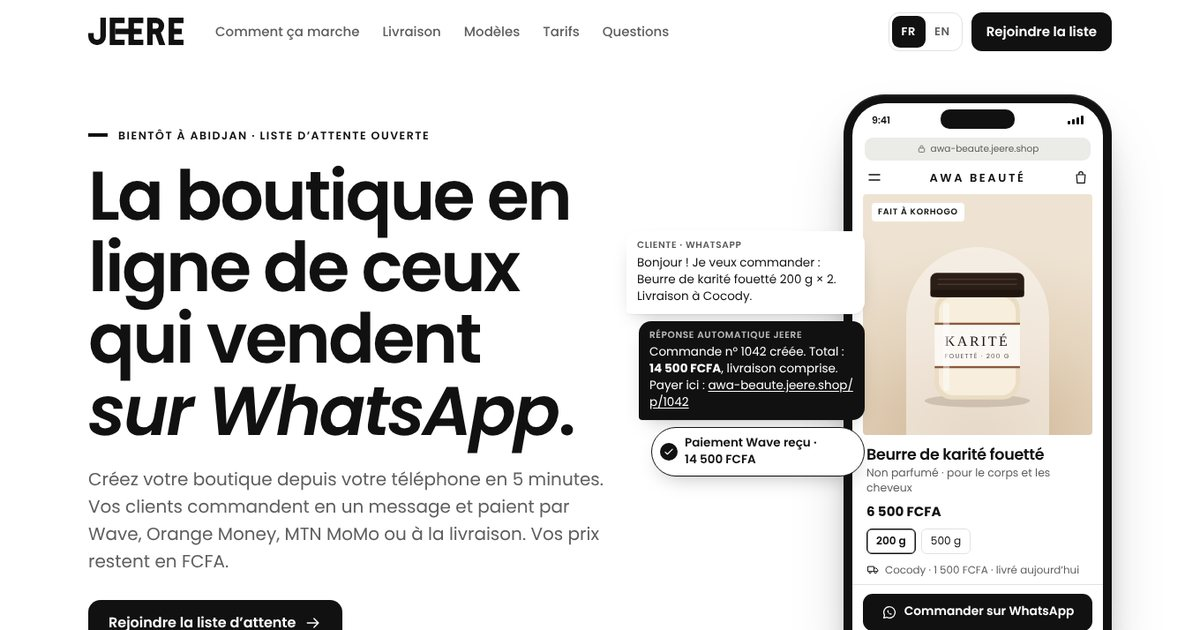
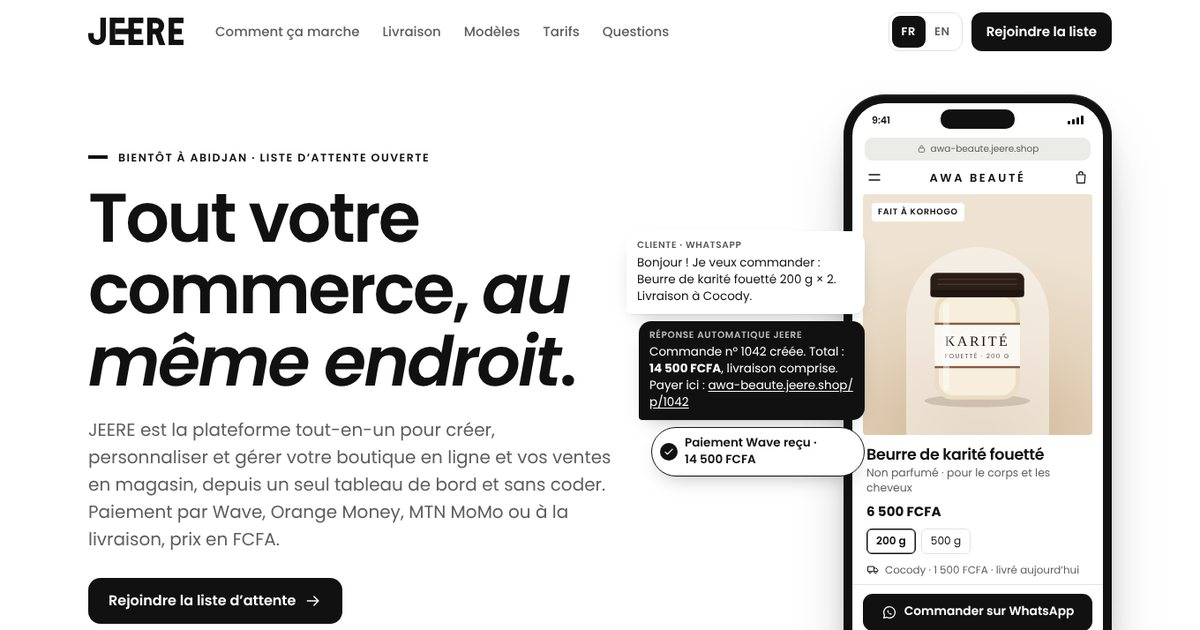
Position JEERE as an all-in-one commerce platform
The headline is now "Tout votre commerce, au même endroit" instead of
"La boutique en ligne de ceux qui vendent sur WhatsApp", in the hero, the
page title, the share tags, the footer and the WhatsApp share message
(English too). A new "Tout-en-un" section lists the platform: online
store, payments, orders and stock, selling everywhere (site, social,
WhatsApp, in the shop) and everything included. Share image and README
updated.

Claude-Session: https://claude.ai/code/session_01TKxGnF4zXs9pxkErArM8zK

Changed region(s): [[0.0617, 0.2111, 0.5242, 1.0]]

diff --git a/concepts/jeere/index.html b/concepts/jeere/index.html
@@ -6,11 +6,11 @@
   <!-- The page lives in a folder (kreeative.xyz/concepts/jeere/). Without the final slash the relative
        links below would point one folder up, so add it before anything loads. -->
   <script>if (!/(\/|\.html)$/.test(location.pathname)) location.replace(location.pathname + '/' + location.search + location.hash);</script>
-  <title>JEERE · La boutique en ligne de ceux qui vendent sur WhatsApp</title>
-  <meta name="description" content="Créez votre boutique depuis votre téléphone. Paiement par Wave, Orange Money, MTN MoMo ou à la livraison, commandes sur WhatsApp, prix en FCFA. Liste d’attente ouverte à Abidjan.">
+  <title>JEERE · Tout votre commerce, au même endroit</title>
+  <meta name="description" content="JEERE, la plateforme tout-en-un pour créer et gérer votre boutique en ligne et vos ventes en magasin, sans coder. Paiement par Wave, Orange Money, MTN MoMo ou à la livraison, prix en FCFA. Liste d’attente ouverte à Abidjan.">
   <meta name="robots" content="noindex, nofollow">
-  <meta property="og:title" content="JEERE · La boutique en ligne de ceux qui vendent sur WhatsApp">
-  <meta property="og:description" content="Paiement par Wave, Orange Money, MTN MoMo ou à la livraison. Commandes sur WhatsApp. Prix en FCFA. Rejoignez les 50 premières boutiques à Abidjan.">
+  <meta property="og:title" content="JEERE · Tout votre commerce, au même endroit">
+  <meta property="og:description" content="La plateforme tout-en-un pour vendre en ligne et en boutique, pensée pour l’Afrique : mobile money, livraison par commune, prix en FCFA. Rejoignez les 50 premières boutiques à Abidjan.">
   <meta property="og:locale" content="fr_CI">
   <meta property="og:locale:alternate" content="en_US">
   <meta property="og:url" content="https://kreeative.xyz/concepts/jeere/">
@@ -45,6 +45,11 @@
     <symbol id="i-camera" viewBox="0 0 24 24"><path d="M3.5 8.5h4l1.5-2.5h6l1.5 2.5h4v11h-17z" fill="none" stroke="currentColor" stroke-width="1.6" stroke-linejoin="round"/><circle cx="12" cy="13.5" r="3.5" fill="none" stroke="currentColor" stroke-width="1.6"/></symbol>
     <symbol id="i-plus" viewBox="0 0 24 24"><path d="M12 5v14M5 12h14" fill="none" stroke="currentColor" stroke-width="1.8" stroke-linecap="round"/></symbol>
     <symbol id="i-share" viewBox="0 0 24 24"><path d="M12 3.5v11M7.5 8 12 3.5 16.5 8M5 12.5v7h14v-7" fill="none" stroke="currentColor" stroke-width="1.8" stroke-linecap="round" stroke-linejoin="round"/></symbol>
+    <symbol id="i-store" viewBox="0 0 24 24"><path d="M4 9.5 5.5 4h13L20 9.5M4 9.5h16M4 9.5a2.7 2.7 0 0 0 5.3 0 2.7 2.7 0 0 0 5.4 0 2.7 2.7 0 0 0 5.3 0M5.5 12v8h13v-8M10 20v-4.5h4V20" fill="none" stroke="currentColor" stroke-width="1.6" stroke-linejoin="round"/></symbol>
+    <symbol id="i-wallet" viewBox="0 0 24 24"><path d="M4 7.5h14.5a1.5 1.5 0 0 1 1.5 1.5v9.5a1.5 1.5 0 0 1-1.5 1.5h-13A1.5 1.5 0 0 1 4 18.5zM4 7.5 15.5 4v3.5" fill="none" stroke="currentColor" stroke-width="1.6" stroke-linejoin="round"/><circle cx="16" cy="14" r="1.3" fill="currentColor"/></symbol>
+    <symbol id="i-box" viewBox="0 0 24 24"><path d="M3.5 7.5 12 3.5l8.5 4v9L12 20.5l-8.5-4zM3.5 7.5 12 11.5l8.5-4M12 11.5v9" fill="none" stroke="currentColor" stroke-width="1.6" stroke-linejoin="round"/></symbol>
+    <symbol id="i-globe" viewBox="0 0 24 24"><circle cx="12" cy="12" r="8.5" fill="none" stroke="currentColor" stroke-width="1.6"/><path d="M3.5 12h17M12 3.5c2.4 2.3 3.6 5.1 3.6 8.5s-1.2 6.2-3.6 8.5c-2.4-2.3-3.6-5.1-3.6-8.5S9.6 5.8 12 3.5z" fill="none" stroke="currentColor" stroke-width="1.6"/></symbol>
+    <symbol id="i-stack" viewBox="0 0 24 24"><path d="M12 3.5 20.5 8 12 12.5 3.5 8zM3.5 12 12 16.5 20.5 12M3.5 16 12 20.5 20.5 16" fill="none" stroke="currentColor" stroke-width="1.6" stroke-linejoin="round"/></symbol>
     <!-- The JEERE wordmark: geometric capitals; the bar that links the two Es is the brand's signature. -->
     <symbol id="wordmark" viewBox="0 0 346 100">
       <path fill="currentColor" d="M44 0H64V68A32 32 0 0 1 0 68V56H20V68A12 12 0 0 0 44 68Z"/>
@@ -105,8 +110,8 @@
     <div class="wrap hero__grid">
       <div class="hero__copy">
         <p class="eyebrow" data-i18n="hero.eyebrow">Bientôt à Abidjan · Liste d’attente ouverte</p>
-        <h1 class="hero__title" data-i18n-html="hero.title">La boutique en ligne de ceux qui vendent <em>sur WhatsApp</em>.</h1>
-        <p class="hero__lead" data-i18n="hero.lead">Créez votre boutique depuis votre téléphone en 5 minutes. Vos clients commandent en un message et paient par Wave, Orange Money, MTN MoMo ou à la livraison. Vos prix restent en FCFA.</p>
+        <h1 class="hero__title" data-i18n-html="hero.title">Tout votre commerce, <em>au même endroit</em>.</h1>
+        <p class="hero__lead" data-i18n="hero.lead">JEERE est la plateforme tout-en-un pour créer, personnaliser et gérer votre boutique en ligne et vos ventes en magasin, depuis un seul tableau de bord et sans coder. Paiement par Wave, Orange Money, MTN MoMo ou à la livraison, prix en FCFA.</p>
         <div class="hero__ctas">
           <a class="btn btn--primary" href="#liste"><span data-i18n="hero.cta">Rejoindre la liste d’attente</span><svg class="ico" aria-hidden="true"><use href="#i-arrow"/></svg></a>
           <a class="btn btn--ghost" href="#comment" data-i18n="hero.cta2">Voir comment ça marche</a>
@@ -174,8 +179,45 @@
     </div>
   </section>
 
-  <!-- 2. Before / after -->
-  <section class="section section--paper" id="pourquoi" aria-labelledby="why-title">
+  <!-- 2. All in one -->
+  <section class="section section--paper" id="tout-en-un" aria-labelledby="all-title">
+    <div class="wrap">
+      <header class="section__head">
+        <p class="eyebrow" data-i18n="all.eyebrow">Tout-en-un</p>
+        <h2 class="h2" id="all-title" data-i18n="all.title">Tout ce qu’il faut pour vendre, dans un seul tableau de bord.</h2>
+      </header>
+      <ul class="features">
+        <li class="feature">
+          <svg class="ico" aria-hidden="true"><use href="#i-store"/></svg>
+          <h3 class="feature__title" data-i18n="all.t1">Boutique en ligne</h3>
+          <p data-i18n="all.p1">Des modèles prêts à l’emploi, à personnaliser depuis votre téléphone. Sans code.</p>
+        </li>
+        <li class="feature">
+          <svg class="ico" aria-hidden="true"><use href="#i-wallet"/></svg>
+          <h3 class="feature__title" data-i18n="all.t2">Paiements</h3>
+          <p data-i18n="all.p2">Wave, Orange Money, MTN MoMo, Moov, carte bancaire et paiement à la livraison.</p>
+        </li>
+        <li class="feature">
+          <svg class="ico" aria-hidden="true"><use href="#i-box"/></svg>
+          <h3 class="feature__title" data-i18n="all.t3">Commandes et stock</h3>
+          <p data-i18n="all.p3">Suivez chaque commande, gérez votre stock et vos livraisons par commune.</p>
+        </li>
+        <li class="feature">
+          <svg class="ico" aria-hidden="true"><use href="#i-globe"/></svg>
+          <h3 class="feature__title" data-i18n="all.t4">Vendez partout</h3>
+          <p data-i18n="all.p4">Sur votre site, Instagram, TikTok, Facebook, WhatsApp et en boutique, avec un seul stock.</p>
+        </li>
+        <li class="feature">
+          <svg class="ico" aria-hidden="true"><use href="#i-stack"/></svg>
+          <h3 class="feature__title" data-i18n="all.t5">Tout est inclus</h3>
+          <p data-i18n="all.p5">Commandes WhatsApp, codes promo, avis clients&nbsp;: pas d’applications payantes à ajouter.</p>
+        </li>
+      </ul>
+    </div>
+  </section>
+
+  <!-- 3. Before / after -->
+  <section class="section" id="pourquoi" aria-labelledby="why-title">
     <div class="wrap">
       <header class="section__head">
         <p class="eyebrow" data-i18n="why.eyebrow">La journée d’une vendeuse en ligne</p>
@@ -661,7 +703,7 @@
   <div class="wrap">
     <svg class="foot__mark" viewBox="0 0 346 100" role="img" aria-label="JEERE"><use href="#wordmark"/></svg>
     <div class="foot__grid">
-      <p class="foot__tag" data-i18n="foot.tag">La boutique en ligne de ceux qui vendent sur WhatsApp.</p>
+      <p class="foot__tag" data-i18n="foot.tag">La plateforme tout-en-un pour vendre en ligne et en boutique.</p>
       <nav class="foot__links" aria-label="Pied de page" data-i18n-attr="aria-label:foot.nav">
         <a href="#comment" data-i18n="nav.how">Comment ça marche</a>
         <a href="#tarifs" data-i18n="nav.pricing">Tarifs</a>

diff --git a/concepts/jeere/i18n.js b/concepts/jeere/i18n.js
@@ -1,7 +1,7 @@
 // English version of every string on the page. French is the default and lives in index.html.
 window.JEERE_EN = {
-  'meta.title': 'JEERE · The online store for people who sell on WhatsApp',
-  'meta.description': 'Build your store from your phone. Get paid by Wave, Orange Money, MTN MoMo or cash on delivery, take orders on WhatsApp, prices in FCFA. Waitlist open in Abidjan.',
+  'meta.title': 'JEERE · All your business, in one place',
+  'meta.description': 'JEERE, the all-in-one platform to build and run your online store and your in-person sales, with no code. Get paid by Wave, Orange Money, MTN MoMo or cash on delivery, prices in FCFA. Waitlist open in Abidjan.',
 
   'skip': 'Skip to content',
   'nav.home': 'JEERE, home',
@@ -16,8 +16,8 @@ window.JEERE_EN = {
   'lang.label': 'Language',
 
   'hero.eyebrow': 'Coming soon to Abidjan · Waitlist open',
-  'hero.title': 'The online store for people who sell <em>on WhatsApp</em>.',
-  'hero.lead': 'Build your store from your phone in 5 minutes. Your customers order in one message and pay by Wave, Orange Money, MTN MoMo or cash on delivery. Your prices stay in FCFA.',
+  'hero.title': 'All your business, <em>in one place</em>.',
+  'hero.lead': 'JEERE is the all-in-one platform to build, customise and run your online store and your in-person sales from a single dashboard, with no code. Get paid by Wave, Orange Money, MTN MoMo or cash on delivery, with prices in FCFA.',
   'hero.cta': 'Join the waitlist',
   'hero.cta2': 'See how it works',
   'hero.note': 'The first 50 stores are built with you and free for 3 months.',
@@ -41,6 +41,19 @@ window.JEERE_EN = {
   'pay.label': 'Get paid the way your customers pay',
   'pay.cod': 'Cash on delivery',
   'pay.card': 'Bank card',
+
+  'all.eyebrow': 'All in one',
+  'all.title': 'Everything you need to sell, in a single dashboard.',
+  'all.t1': 'Online store',
+  'all.p1': 'Ready-made templates you customise from your phone. No code.',
+  'all.t2': 'Payments',
+  'all.p2': 'Wave, Orange Money, MTN MoMo, Moov, bank cards and cash on delivery.',
+  'all.t3': 'Orders and stock',
+  'all.p3': 'Follow every order, manage your stock and your deliveries by commune.',
+  'all.t4': 'Sell everywhere',
+  'all.p4': 'On your site, Instagram, TikTok, Facebook, WhatsApp and in your shop, from one stock.',
+  'all.t5': 'Everything included',
+  'all.p5': 'WhatsApp orders, discount codes, customer reviews: no paid apps to add.',
 
   'why.eyebrow': 'A day in the life of an online seller',
   'why.title': 'You already sell. JEERE does the rest of the work.',
@@ -226,7 +239,7 @@ window.JEERE_EN = {
   'form.submit': 'Join the waitlist',
   'done.share': 'Share JEERE on WhatsApp',
 
-  'foot.tag': 'The online store for people who sell on WhatsApp.',
+  'foot.tag': 'The all-in-one platform to sell online and in person.',
   'foot.nav': 'Footer',
   'foot.small': 'JEERE is in the works: features and prices may change before launch. Payments will be handled by a partner licensed by the BCEAO; JEERE will never hold sellers’ money. An idea born at <a href="https://kreeative.xyz">Kreeative</a>. Contact: <a href="mailto:annklyy@gmail.com?subject=JEERE">annklyy@gmail.com</a>'
 };

diff --git a/concepts/jeere/site.js b/concepts/jeere/site.js
@@ -27,7 +27,7 @@
       doneText: 'Nous vous écrirons sur WhatsApp dès que votre place est prête.',
       dupTitle: 'Vous êtes déjà sur la liste !',
       dupText: 'Ce numéro est déjà inscrit. Nous vous écrirons sur WhatsApp très bientôt.',
-      share: 'Je viens de rejoindre la liste d’attente de JEERE, la boutique en ligne de ceux qui vendent sur WhatsApp : '
+      share: 'Je viens de rejoindre la liste d’attente de JEERE, la plateforme tout-en-un pour vendre en ligne et en boutique : '
     },
     en: {
       today: 'Delivered today', todayOrTomorrow: 'Delivered today or tomorrow', tomorrow: 'Delivered tomorrow',
@@ -40,7 +40,7 @@
       doneText: 'We’ll message you on WhatsApp as soon as your spot is ready.',
       dupTitle: 'You’re already on the list!',
       dupText: 'This number is already signed up. We’ll message you on WhatsApp very soon.',
-      share: 'I just joined the JEERE waitlist, the online store for people who sell on WhatsApp: '
+      share: 'I just joined the JEERE waitlist, the all-in-one platform to sell online and in person: '
     }
   };
 
@@ -248,7 +248,7 @@
 
   /* ---------- Gentle scroll-in for section headings and cards ---------- */
   if ('IntersectionObserver' in window && !window.matchMedia('(prefers-reduced-motion: reduce)').matches) {
-    var items = $$('.section__head, .compare__col, .promises li, .step, .plan, .receipt, .dia__card, .join__card');
+    var items = $$('.section__head, .feature, .compare__col, .promises li, .step, .plan, .receipt, .dia__card, .join__card');
     var io = new IntersectionObserver(function (entries) {
       entries.forEach(function (en) { if (en.isIntersecting) { en.target.classList.add('is-in'); io.unobserve(en.target); } });
     }, { rootMargin: '0px 0px -8% 0px' });

diff --git a/concepts/jeere/style.css b/concepts/jeere/style.css
@@ -226,10 +226,17 @@ html:not(.js) .msg { animation: none; opacity: 1; transform: none; }
 .section__head { max-width: 760px; margin-bottom: 40px; }
 @media (min-width: 1000px) { .section { padding: 112px 0; } .section__head { margin-bottom: 56px; } }
 
+/* All in one */
+.features { display: grid; gap: 12px; grid-template-columns: repeat(auto-fit, minmax(210px, 1fr)); }
+.feature { background: var(--white); border: 1px solid var(--line); border-radius: var(--r-lg); padding: 24px 22px; }
+.feature .ico { width: 28px; height: 28px; margin-bottom: 18px; }
+.feature__title { font: 600 19px/1.25 var(--f-display); letter-spacing: -.02em; margin-bottom: 6px; }
+.feature p { color: var(--muted); font-size: 15.5px; }
+
 /* Before / after */
 .compare { display: grid; gap: 14px; }
 .compare__col { border-radius: var(--r-lg); padding: 24px 22px; }
-.compare__col--before { background: var(--white); border: 1px solid var(--line); }
+.compare__col--before { background: var(--grey-1); }
 .compare__col--after { background: var(--ink); color: var(--white); --link-bar: var(--accent-light); }
 .compare__title { display: flex; align-items: center; gap: 10px; font: 600 13px/1 var(--f-text); letter-spacing: .12em; text-transform: uppercase; margin-bottom: 18px; min-height: 22px; }
 .compare__col--before .compare__title { color: var(--muted); }

diff --git a/concepts/jeere/README.md b/concepts/jeere/README.md
@@ -1,7 +1,8 @@
 # JEERE — landing page and waitlist
 
-The first public face of **JEERE**, the store builder for people who sell on WhatsApp
-(brainstorm of 2 November 2026). It pitches the product to Abidjan sellers and collects a
+The first public face of **JEERE**, the all-in-one commerce platform built for Africa: build and
+run an online store and in-person sales from one dashboard, with mobile money (brainstorm of
+2 November 2026). It pitches the product to Abidjan sellers and collects a
 waitlist that doubles as the pool for the seller interviews and the 50-store concierge pilot.
 French by default (Côte d’Ivoire, prices in FCFA), with an English version.
 
@@ -49,17 +50,18 @@ Numbers are personal data: keep the table private, and delete a row when someone
 
 ## Page
 
-1. Hero: headline, the store on a phone (Plateau template) and a WhatsApp order that plays out
+1. Hero: “Tout votre commerce, au même endroit”, the store on a phone (Plateau template) and a WhatsApp order that plays out
    in three bubbles, then the payment methods.
-2. Aujourd’hui / Avec JEERE.
-3. Three promises.
-4. How it works, in four steps.
-5. Delivery by commune: pick one of 13 communes and the receipt updates (fee, total, delay).
-6. Templates: Plateau, Cocody and Treichville tabs switch the phone preview.
-7. Diaspora mode (marked “coming soon”).
-8. Pricing: Gratuit, Essentiel, Pro, Business.
-9. FAQ.
-10. Waitlist form (seller or diaspora buyer), with a WhatsApp share button after sign-up.
+2. Tout-en-un: online store, payments, orders and stock, sell everywhere, everything included.
+3. Aujourd’hui / Avec JEERE.
+4. Three promises.
+5. How it works, in four steps.
+6. Delivery by commune: pick one of 13 communes and the receipt updates (fee, total, delay).
+7. Templates: Plateau, Cocody and Treichville tabs switch the phone preview.
+8. Diaspora mode (marked “coming soon”).
+9. Pricing: Gratuit, Essentiel, Pro, Business.
+10. FAQ.
+11. Waitlist form (seller or diaspora buyer), with a WhatsApp share button after sign-up.
 
 ## Files
 
